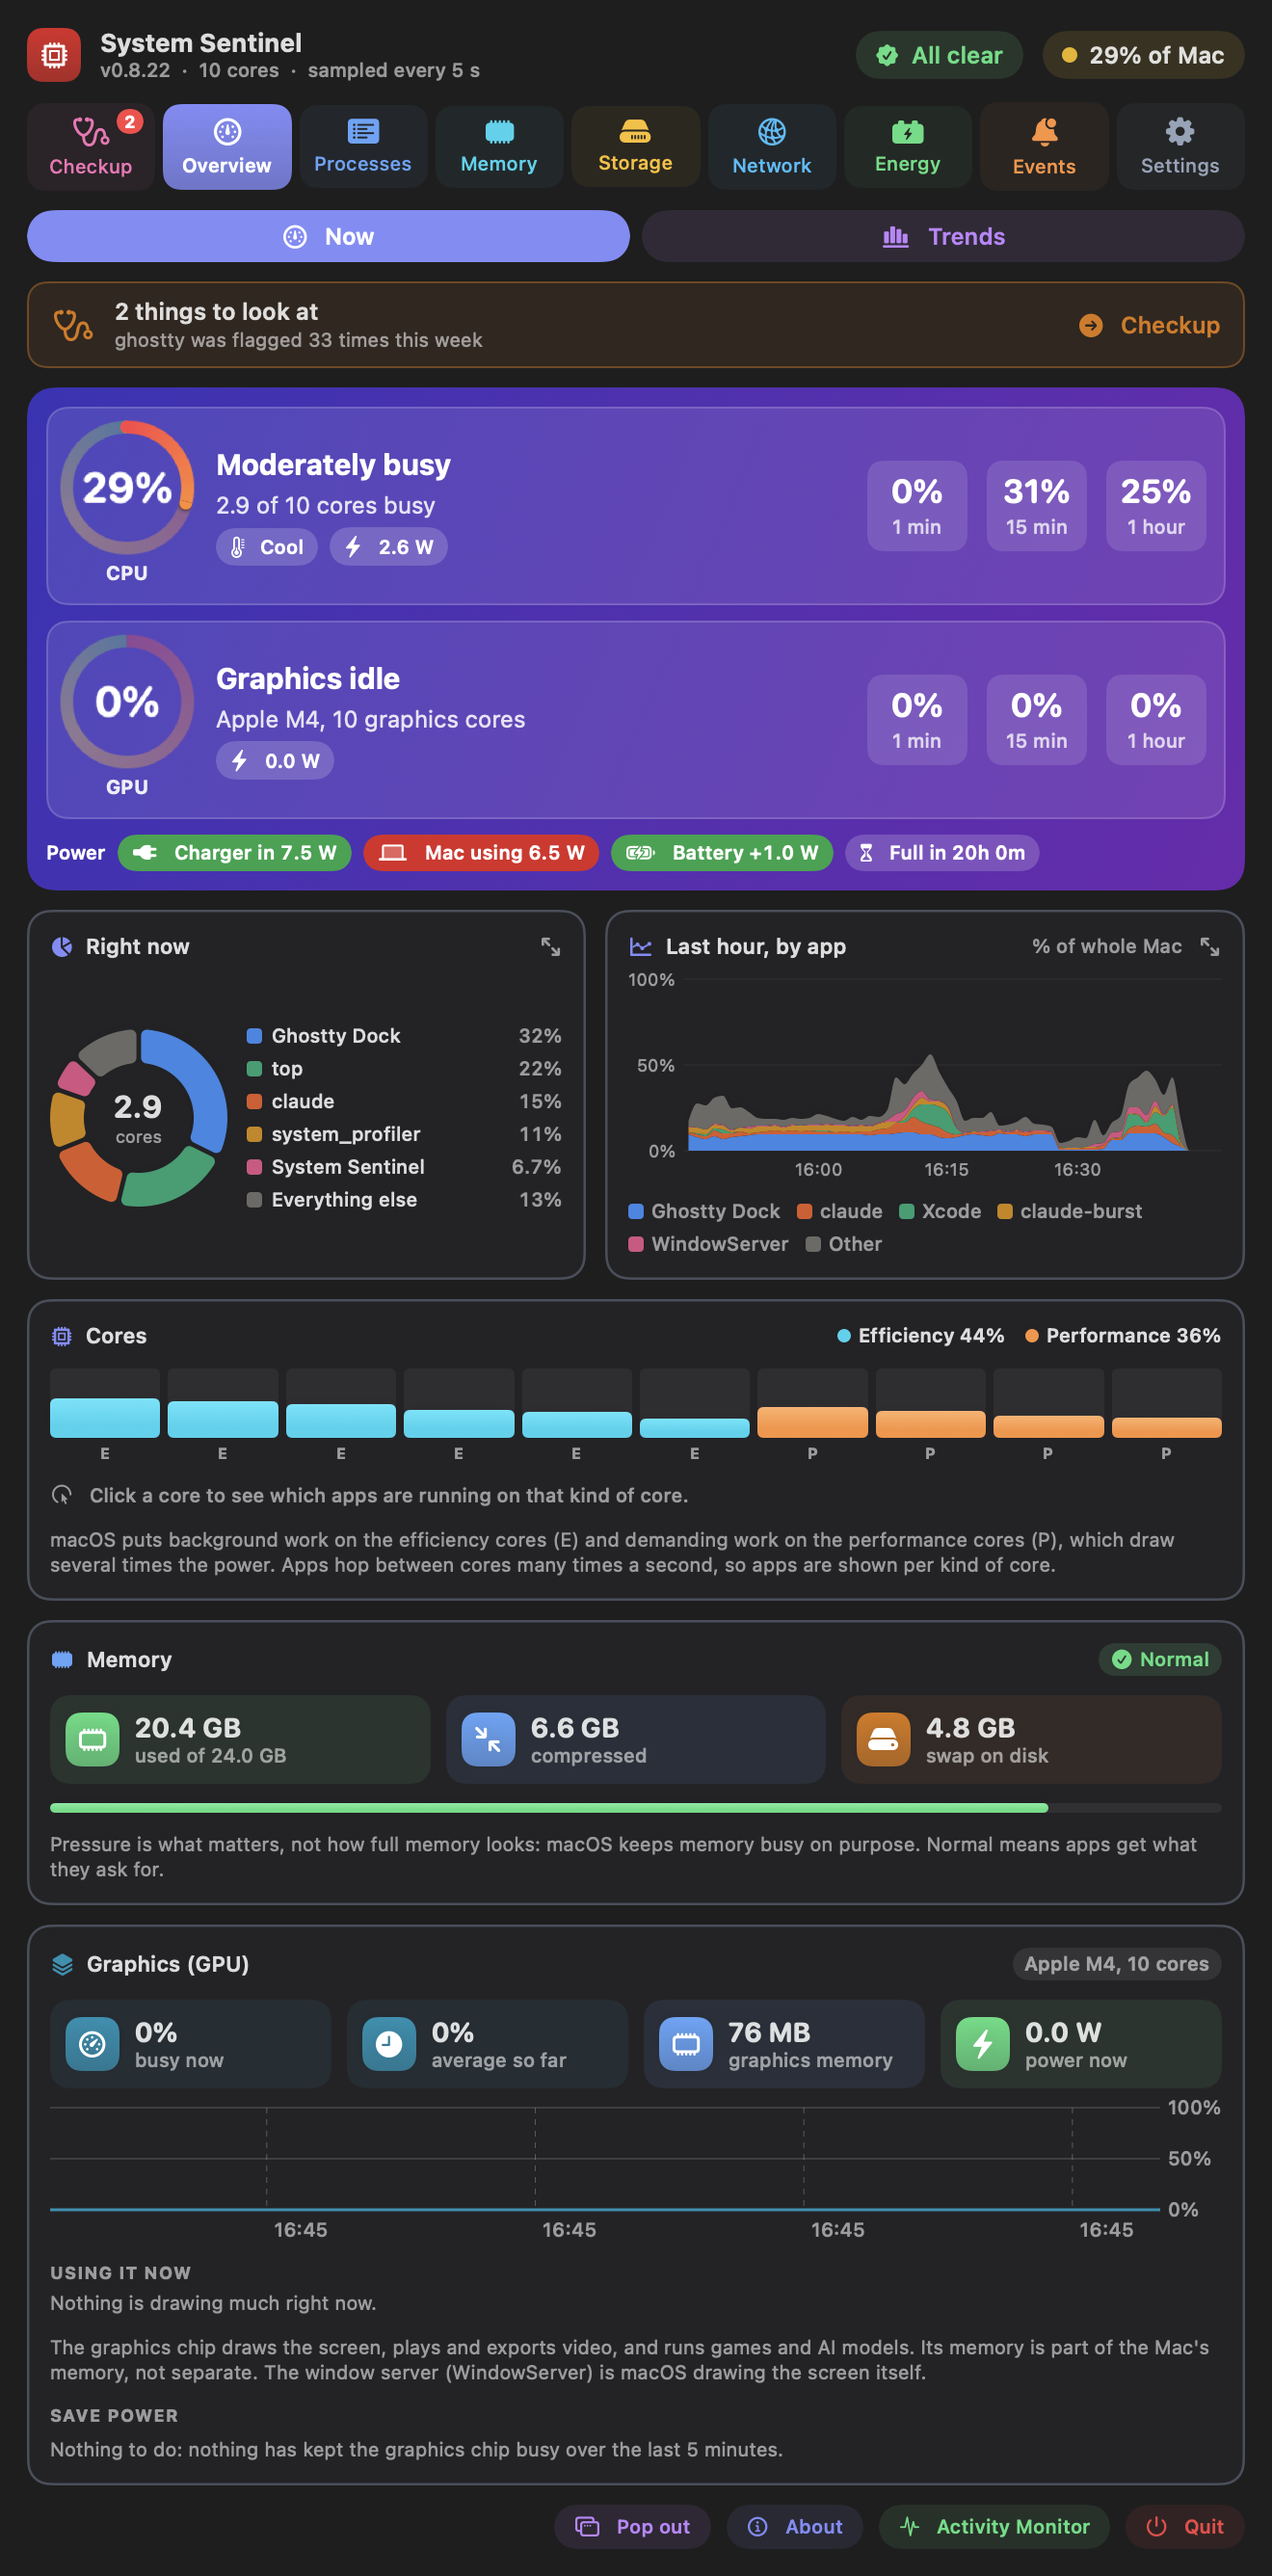
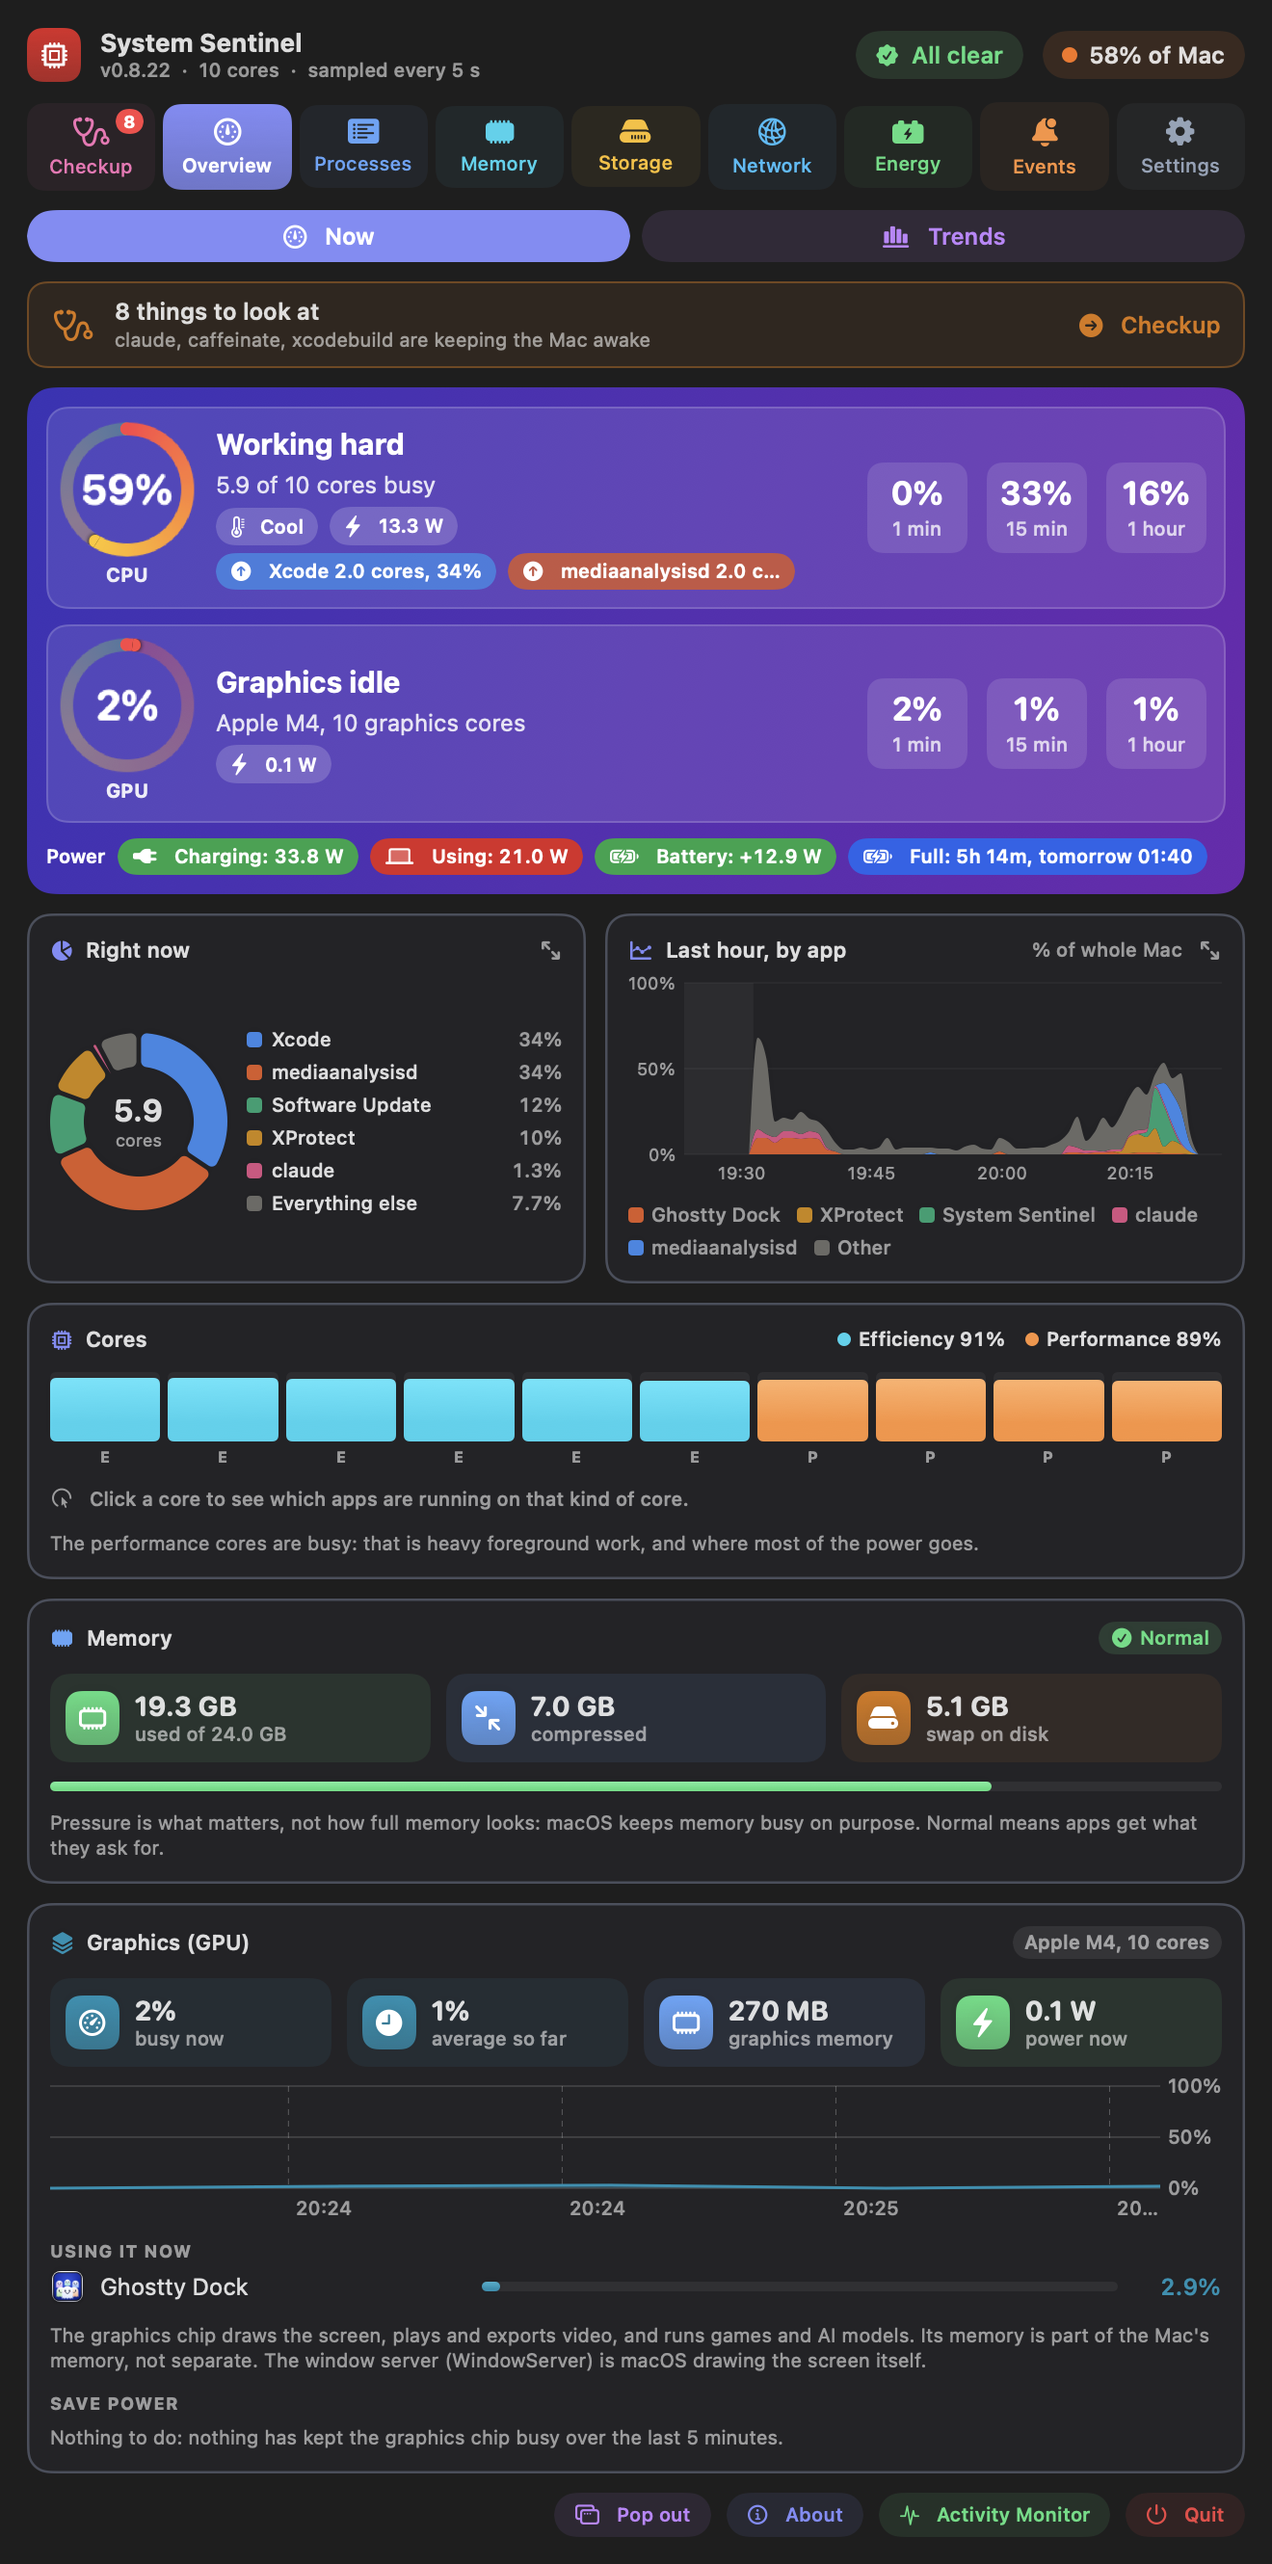
Power line: shorter labels, No power and Full time chips, chips never truncated
Claude-Session: https://claude.ai/code/session_01TWwcHqjEzaPteGujS1EcAv

diff --git a/Sources/SystemSentinel/OverviewView.swift b/Sources/SystemSentinel/OverviewView.swift
@@ -131,8 +131,10 @@ private struct Hero: View {
             if let b = model.battery, b.present {
                 HStack(spacing: 6) {
                     Text(b.losingOnPower ? "Losing charge on power" : b.onBattery ? "On battery" : "Power").font(.caption.weight(.semibold)).foregroundStyle(.white)
+                        .lineLimit(2)
                     PowerFlow(battery: b)
-                    BatteryTimeChip(battery: b, minutesLeft: model.minutesToEmpty())
+                    // Numbers never cut short: the label wraps instead.
+                    BatteryTimeChip(battery: b, minutesLeft: model.minutesToEmpty()).fixedSize()
                 }
                 .frame(maxWidth: .infinity, alignment: .leading)
             }
@@ -221,15 +223,15 @@ struct PowerFlow: View {
         let b = battery
         HStack(spacing: 6) {
             if let i = b.powerIn {
-                chip(String(format: "Charger in %.1f W", i), "powerplug.fill", Color(hex: "#16a34a"))
+                chip(String(format: "Charging: %.1f W", i), "powerplug.fill", Color(hex: "#16a34a"))
                     .tip(b.adapterWatts.map { "A \($0) W charger. What reaches the Mac after losses in the charger and cable." } ?? "What reaches the Mac from the charger")
             }
             if let w = b.watts {
-                chip(String(format: "Mac using %.1f W", w), "laptopcomputer", Color(hex: "#dc2626")).tip("Everything the Mac draws: chip, screen, Wi-Fi, SSD and the rest")
+                chip(String(format: "Using: %.1f W", w), "laptopcomputer", Color(hex: "#dc2626")).tip("Everything the Mac draws: chip, screen, Wi-Fi, SSD and the rest")
             }
             if let bw = b.batteryWatts, abs(bw) >= 0.1 {
                 let gaining = bw > 0
-                chip(String(format: "Battery %@%.1f W", gaining ? "+" : "−", abs(bw)),
+                chip(String(format: "Battery: %@%.1f W", gaining ? "+" : "−", abs(bw)),
                      gaining ? "battery.100.bolt" : "battery.25",
                      gaining ? Color(hex: "#16a34a") : Color(hex: "#dc2626"))
                     .tip(gaining ? "Going into the battery: it is charging"
@@ -244,26 +246,29 @@ struct PowerFlow: View {
             .font(.caption2.weight(.semibold)).foregroundStyle(.white).lineLimit(1).monospacedDigit()
             .padding(.horizontal, 7).padding(.vertical, 3)
             .background(Capsule().fill(fill ?? .white.opacity(0.18)))
+            .fixedSize()
     }
 }
 
-/// When the battery runs out, or fills up: "Empty in 1h 40m, 14:32", "Full in 35m", "Charged".
+/// When the power runs out (on battery, or on a charger that cannot keep up), when charging
+/// finishes, or, plugged in and holding, how long the charge would last if unplugged now.
 private struct BatteryTimeChip: View {
     let battery: BatteryStatus
     let minutesLeft: Int?
     var body: some View {
         let b = battery
-        if (b.onBattery || b.losingOnPower), let m = minutesLeft {
-            HeroChip(text: "Empty in \(Insights.duration(Double(m) * 60)), \(BatteryETABanner.clock(m))", symbol: "hourglass",
-                     fill: m <= 20 ? Color(hex: "#dc2626") : nil)
-                .tip("When the battery runs out at this pace. You get a notification at 20 minutes left and again at 5.")
-        } else if b.charging, let m = b.minutesToFull, m > 0 {
-            HeroChip(text: "Full in \(Insights.duration(Double(m) * 60))", symbol: "hourglass").tip("macOS's estimate of when charging finishes")
-        } else if b.fullyCharged || b.percent >= 100 {
-            HeroChip(text: "Charged", symbol: "checkmark.circle.fill")
-        } else if !b.onBattery, !b.charging {
-            HeroChip(text: "Not charging, \(b.percent)%", symbol: "pause.circle.fill")
-                .tip("Plugged in but holding the charge. macOS does this to protect the battery (Optimised Charging or a charge limit).")
+        if b.onBattery || b.losingOnPower {
+            if let m = minutesLeft {
+                HeroChip(text: "No power: \(Insights.duration(Double(m) * 60)), \(BatteryETABanner.clock(m))", symbol: "hourglass",
+                         fill: Color(hex: m <= 20 ? "#dc2626" : "#d97706"))
+                    .tip("When the battery runs out at this pace. You get a notification at 20 minutes left and again at 5.")
+            }
+        } else if let m = b.minutesUntilFull {
+            HeroChip(text: "Full: \(Insights.duration(Double(m) * 60)), \(BatteryETABanner.clock(m))", symbol: "battery.100.bolt", fill: Color(hex: "#2563eb"))
+                .tip("When the battery will be full at this charging pace")
+        } else if let m = b.minutesIfUnplugged {
+            HeroChip(text: "No power: \(Insights.duration(Double(m) * 60)) unplugged", symbol: "hourglass", fill: Color(hex: "#2563eb"))
+                .tip("How long the \(b.percent)% charge would last if you unplugged now, at what the Mac is using")
         }
     }
 }

diff --git a/Tests/SentinelCoreTests/PowerTests.swift b/Tests/SentinelCoreTests/PowerTests.swift
@@ -496,4 +496,21 @@ final class BatteryETATests: XCTestCase {
         XCTAssertEqual(v.update(minutesLeft: 4, draining: true), 5)
         XCTAssertNil(v.update(minutesLeft: 2, draining: true))
     }
+
+    func testMinutesIfUnplugged() {
+        // 5000 mAh at 50% and 12 V is 30 Wh; at 10 W that lasts 3 hours.
+        let b = BatteryStatus(onBattery: false, percent: 50, watts: 10, maxCapacity: 5000, voltage: 12)
+        XCTAssertEqual(b.minutesIfUnplugged, 180)
+        XCTAssertNil(BatteryStatus(percent: 50, watts: 0.2, maxCapacity: 5000, voltage: 12).minutesIfUnplugged)
+    }
+
+    func testMinutesUntilFull() {
+        // Half of 5000 mAh at 12 V is 30 Wh to go; at 15 W in, 2 hours.
+        let b = BatteryStatus(charging: true, percent: 50, maxCapacity: 5000, batteryWatts: 15, voltage: 12)
+        XCTAssertEqual(b.minutesUntilFull, 120)
+        var mac = b
+        mac.minutesToFull = 95
+        XCTAssertEqual(mac.minutesUntilFull, 95)
+        XCTAssertNil(BatteryStatus(charging: false, percent: 50).minutesUntilFull)
+    }
 }

diff --git a/Sources/SentinelCore/Power.swift b/Sources/SentinelCore/Power.swift
@@ -60,6 +60,20 @@ public struct BatteryStatus: Equatable, Sendable {
         return Double(m) / Double(d) * 100
     }
 
+    /// How long the charge would last if unplugged now, at the current draw.
+    public var minutesIfUnplugged: Int? {
+        guard let e = energyLeft, let w = watts, w > 0.5 else { return nil }
+        return Int(e / w * 60)
+    }
+
+    /// Minutes until full while charging: macOS's estimate, else the room left over what is going in.
+    public var minutesUntilFull: Int? {
+        guard charging, !fullyCharged, percent < 100 else { return nil }
+        if let m = minutesToFull, m > 0 { return m }
+        guard let cap = maxCapacity, let v = voltage, let w = batteryWatts, w > 0.5 else { return nil }
+        return Int(Double(cap) * Double(100 - percent) / 100 * v / 1000 / w * 60)
+    }
+
     /// Plugged in, yet the battery is still going down: the charger is too small for the load.
     public var losingOnPower: Bool {
         !onBattery && (batteryWatts ?? 0) <= -0.5

diff --git a/docs/guide.md b/docs/guide.md
@@ -105,11 +105,12 @@ The answer to "is my Mac busy, and why?" in one screen:
 - **GPU panel.** The same for the graphics chip: a dial, its name and core count, its watts
   and the two apps using it most (5% or more each). Local AI models, video and games load the
   GPU rather than the CPU, so a quiet CPU dial can sit beside a full GPU one.
-- **Power line.** Always shown on a Mac with a battery: **Charger in** (green), **Mac using**
-  (red), and **Battery** (green while charging, red while draining). Then how long it lasts:
-  **Empty in 1h 40m, 14:32** on battery (red at 20 minutes or less), **Full in 35m** while
-  charging, **Charged**, or **Not charging** when macOS is holding the level to protect the
-  battery. When the charger is too small for the load, the line reads **Losing charge on
+- **Power line.** Always shown on a Mac with a battery: **Charging** (green, what the charger
+  delivers), **Using** (red, the whole Mac), and **Battery** (green and + while charging, red
+  and − while draining). Then **No power**: on battery, when it runs out ("No power: 1h 40m,
+  14:32", amber, red at 20 minutes or less). While charging it shows **Full** instead, in
+  blue ("Full: 4h 8m, 18:40"). Plugged in and not charging, it shows how long the charge would
+  last if you unplugged now. When the charger is too small for the load, the line reads **Losing charge on
   power** and the battery still counts down.
 - **1 min / 15 min / 1 hour** on each panel. Use averaged over each period. A high 1 minute
   figure with a low 1 hour figure is a spike; all three high means it has been busy for a while.
@@ -295,7 +296,7 @@ What the Mac draws and what is costing battery:
 
 - **Battery.** Charge, time left (macOS's estimate, or the charge left divided by the
   current draw), charging state, charger watts, temperature and the whole Mac's power
-  draw in watts, with the same Charger in / Mac using / Battery chips as the Overview. A
+  draw in watts, with the same Charging / Using / Battery chips as the Overview. A
   charger too small for the load shows as **Losing charge on power**, with the time to empty.
   On a Mac without a battery this is replaced by a note.
 - **Power draw.** Watts over the last hour, 6 or 24 hours, or 7 days, coloured by battery
